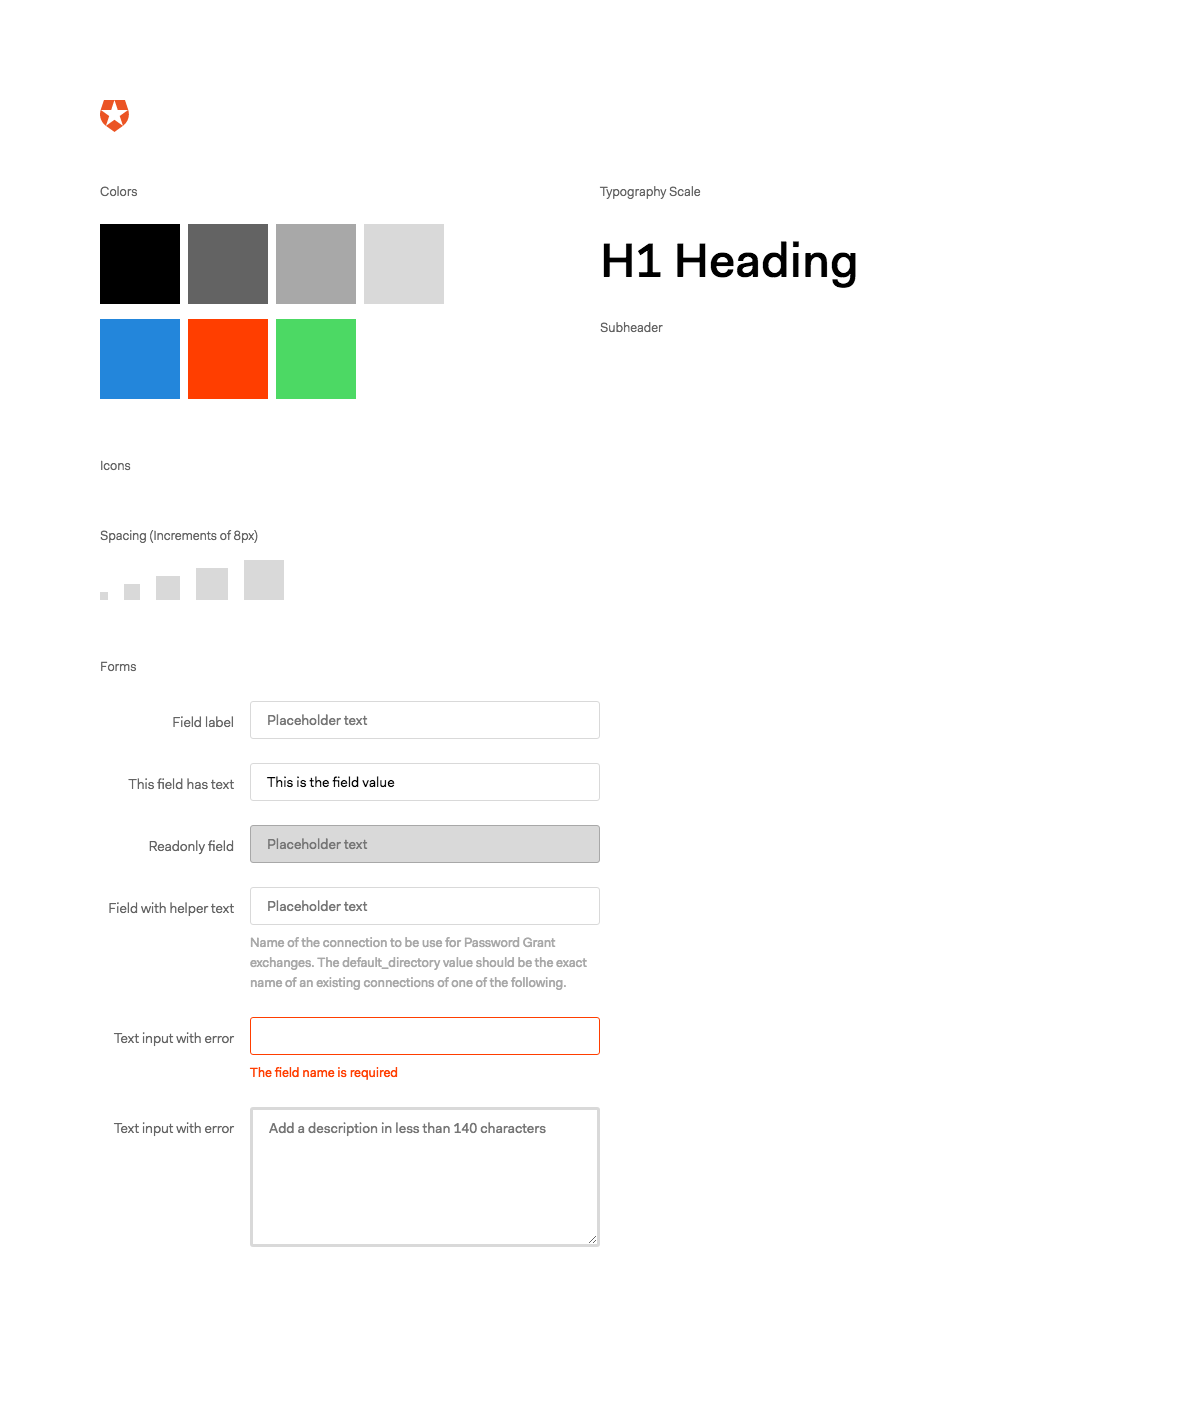
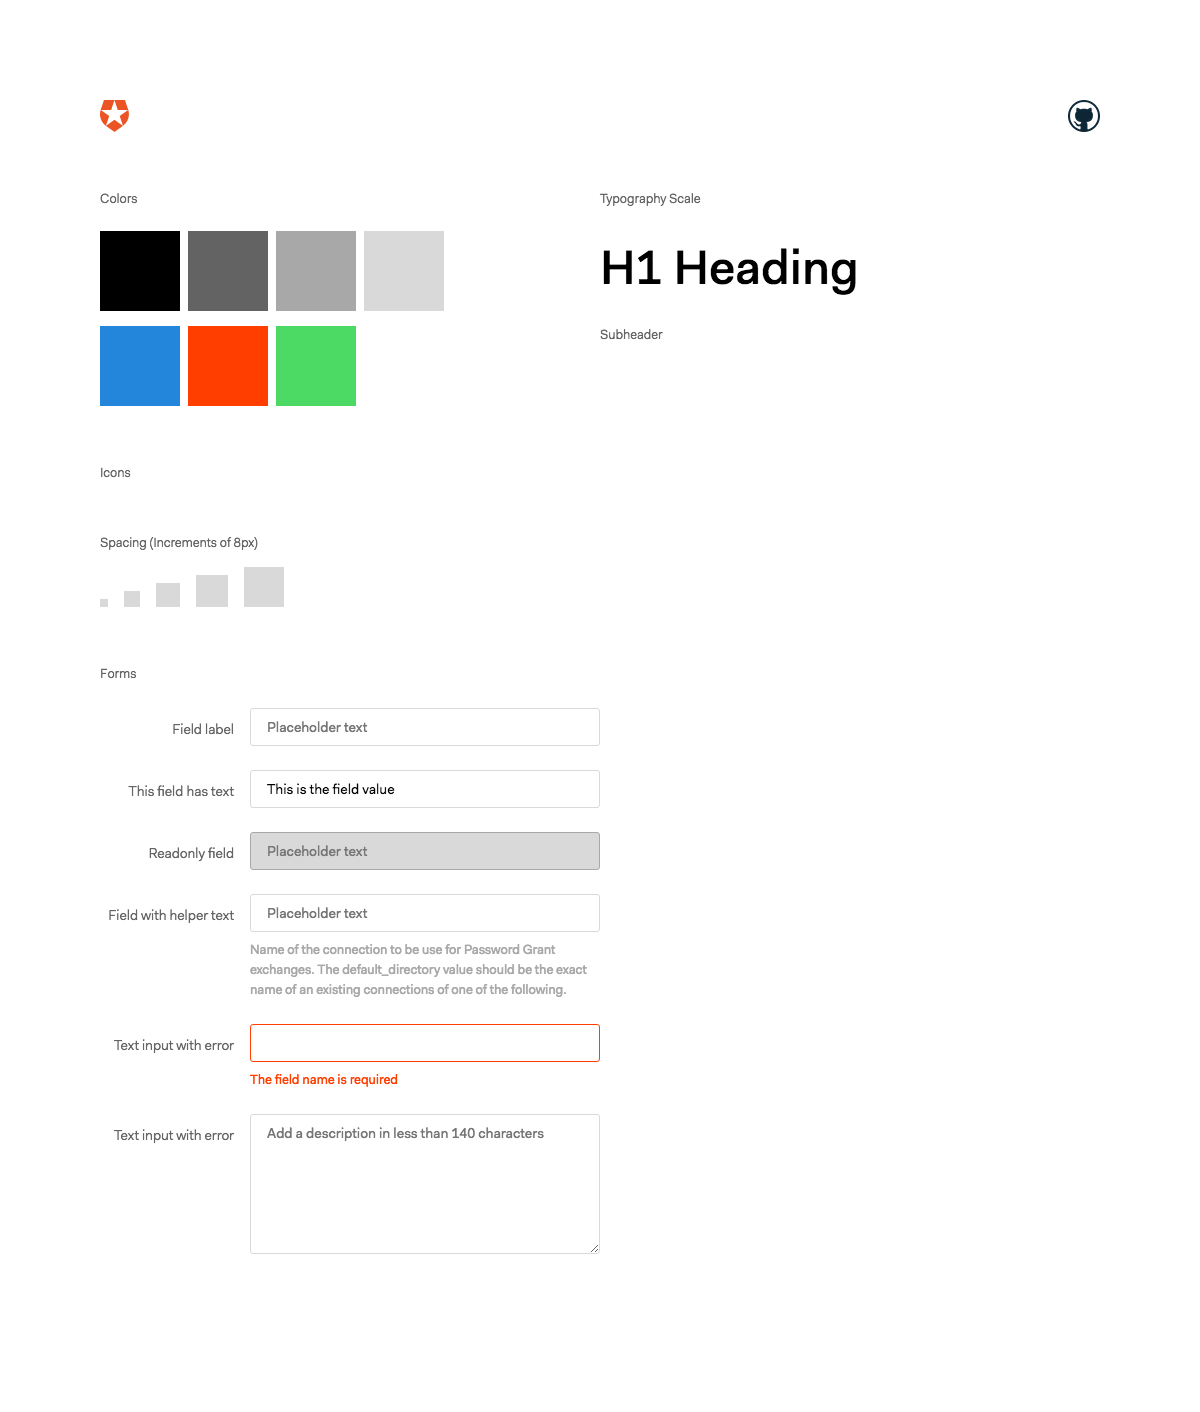
fix textarea border-width to 1px

diff --git a/src/components/atoms/textarea.js b/src/components/atoms/textarea.js
@@ -11,7 +11,7 @@ const Textarea = styled.textarea`
   background: ${colors.white};
   box-shadow: none;
 
-  border: ${misc.borderWidth} solid ${colors.grayLight};
+  border: 1px solid ${colors.grayLight};
   border-radius: ${misc.radius};
 
   font-family: ${props => (props.code ? fonts.code : fonts.text)};
